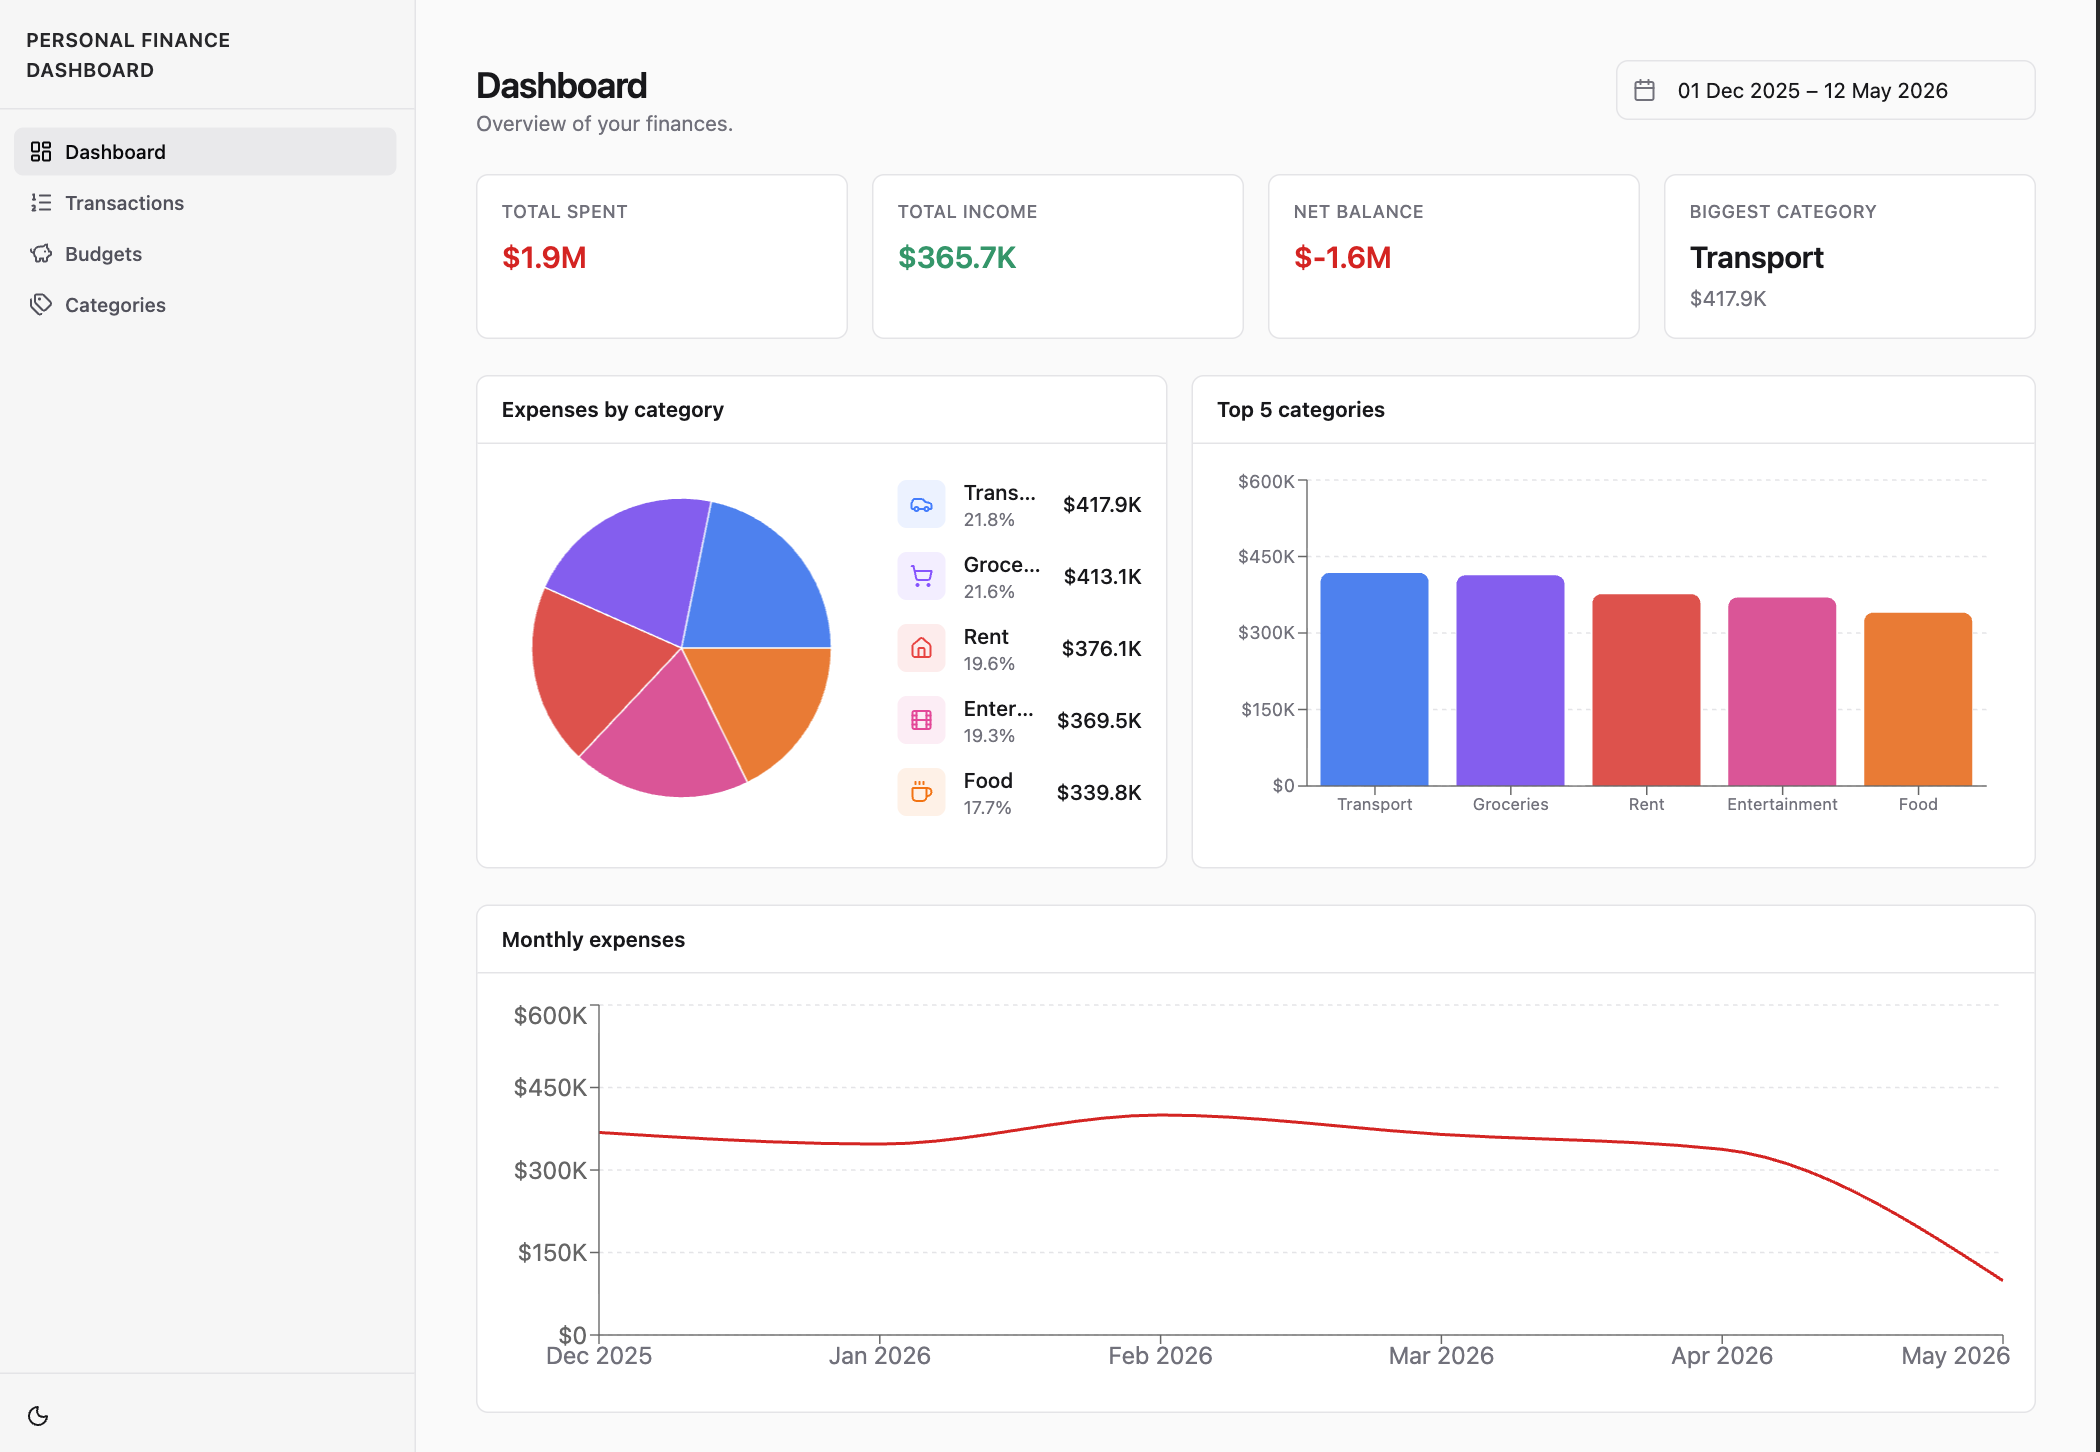
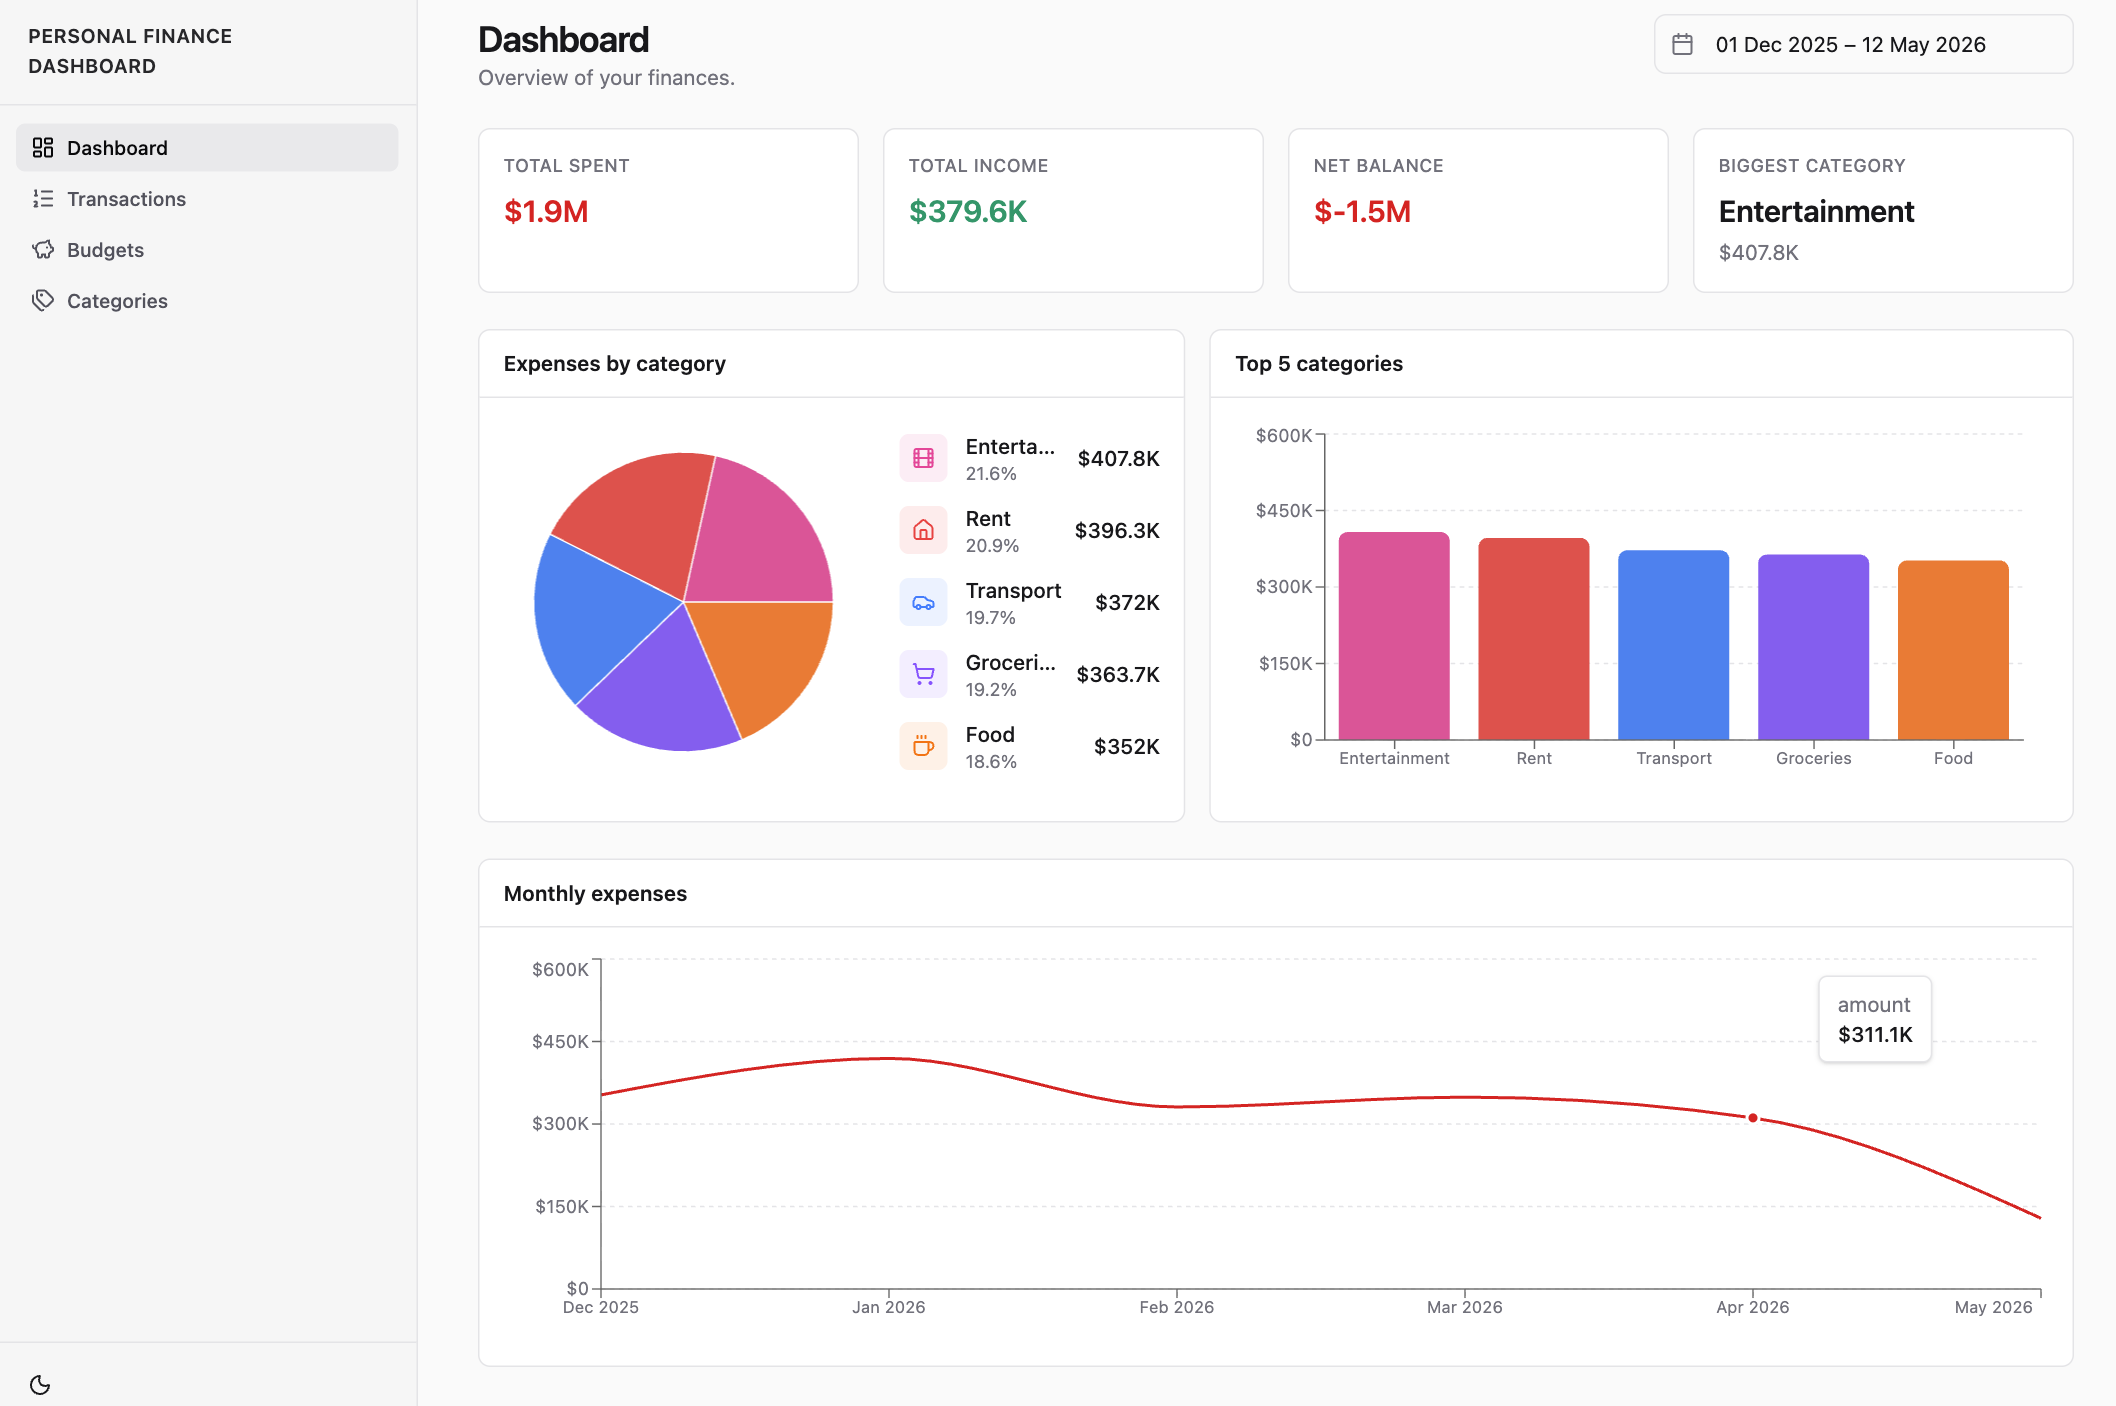
add README and deploy project to Vercel

diff --git a/README.md b/README.md
@@ -1,73 +1,186 @@
-# React + TypeScript + Vite
+# Finance Flow
 
-This template provides a minimal setup to get React working in Vite with HMR and some ESLint rules.
+A modern personal finance dashboard built with React, TypeScript, and AI-assisted development.
 
-Currently, two official plugins are available:
+## Live Demo
 
-- [@vitejs/plugin-react](https://github.com/vitejs/vite-plugin-react/blob/main/packages/plugin-react) uses [Oxc](https://oxc.rs)
-- [@vitejs/plugin-react-swc](https://github.com/vitejs/vite-plugin-react/blob/main/packages/plugin-react-swc) uses [SWC](https://swc.rs/)
+https://personal-finance-flow.vercel.app/
 
-## React Compiler
+## Preview
 
-The React Compiler is not enabled on this template because of its impact on dev & build performances. To add it, see [this documentation](https://react.dev/learn/react-compiler/installation).
+![Finance Flow Dashboard](./src/assets/hero.png)
 
-## Expanding the ESLint configuration
+## Features
 
-If you are developing a production application, we recommend updating the configuration to enable type-aware lint rules:
+- Financial overview dashboard with charts and summary cards
+- Transactions management with filtering, search, and URL-persisted state
+- Budget tracking with progress indicators
+- Categories management
+- Responsive mobile/tablet/desktop layouts
+- Dark mode support
+- Mock API with realistic async behavior using MSW
+- Form validation for transaction, budget, and category forms
 
-```js
-export default defineConfig([
-  globalIgnores(["dist"]),
-  {
-    files: ["**/*.{ts,tsx}"],
-    extends: [
-      // Other configs...
+## Tech Stack
 
-      // Remove tseslint.configs.recommended and replace with this
-      tseslint.configs.recommendedTypeChecked,
-      // Alternatively, use this for stricter rules
-      tseslint.configs.strictTypeChecked,
-      // Optionally, add this for stylistic rules
-      tseslint.configs.stylisticTypeChecked,
+### Frontend
 
-      // Other configs...
-    ],
-    languageOptions: {
-      parserOptions: {
-        project: ["./tsconfig.node.json", "./tsconfig.app.json"],
-        tsconfigRootDir: import.meta.dirname,
-      },
-      // other options...
-    },
-  },
-]);
+- React 19
+- TypeScript
+- Vite
+- Tailwind CSS
+- shadcn/ui
+- React Router
+
+### Data & State
+
+- TanStack Query
+- URL search params
+- MSW
+
+### Forms & Validation
+
+- react-hook-form
+- Zod
+
+### Charts & UI
+
+- Recharts
+- Lucide React
+
+### Tooling
+
+- ESLint
+- Prettier
+
+### AI Tooling
+
+- Claude Code
+
+## Architecture
+
+The project uses a feature-oriented structure.
+
+Shared UI primitives and layout components live in `src/components`, while domain-specific code is grouped by feature:
+
+- `features/transactions`
+- `features/budgets`
+- `features/categories`
+- `features/dashboard`
+
+State is split by responsibility:
+
+- **Server state** — handled with TanStack Query
+- **URL state** — used for transaction filters and search state
+- **Local UI state** — used for dialogs, forms, mobile navigation, and theme UI
+
+The project intentionally avoids unnecessary global state. A `store` directory exists, but no global store is used until there is a real need for one.
+
+MSW is used to simulate realistic API behavior without adding backend infrastructure complexity.
+
+## Responsive UX
+
+The app includes responsive layouts for mobile, tablet, and desktop:
+
+- mobile navigation with a sheet menu
+- adaptive page headers
+- mobile-friendly transaction filters
+- responsive dashboard cards and charts
+- table/card presentation for dense data views
+- dark mode support across pages and shared components
+
+## AI-Assisted Development
+
+Claude Code was used throughout development for implementation, debugging, refactoring, and responsive UX polish.
+
+The AI workflow is intentionally documented as part of the project because the goal is not only to build a dashboard, but also to demonstrate practical AI-assisted frontend development.
+
+## Project Structure
+
+```txt
+src/
+├── api/
+│   ├── mockData.ts
+│   ├── msw/
+│   │   ├── browser.ts
+│   │   └── handlers.ts
+│   └── queryKeys.ts
+├── assets/
+├── components/
+│   ├── layout/
+│   └── ui/
+├── features/
+│   ├── budgets/
+│   ├── categories/
+│   ├── dashboard/
+│   └── transactions/
+├── hooks/
+├── lib/
+├── pages/
+├── router.tsx
+├── types/
+├── App.tsx
+└── main.tsx
 ```
 
-You can also install [eslint-plugin-react-x](https://github.com/Rel1cx/eslint-react/tree/main/packages/plugins/eslint-plugin-react-x) and [eslint-plugin-react-dom](https://github.com/Rel1cx/eslint-react/tree/main/packages/plugins/eslint-plugin-react-dom) for React-specific lint rules:
+## Local Development
 
-```js
-// eslint.config.js
-import reactX from "eslint-plugin-react-x";
-import reactDom from "eslint-plugin-react-dom";
+Install dependencies:
 
-export default defineConfig([
-  globalIgnores(["dist"]),
-  {
-    files: ["**/*.{ts,tsx}"],
-    extends: [
-      // Other configs...
-      // Enable lint rules for React
-      reactX.configs["recommended-typescript"],
-      // Enable lint rules for React DOM
-      reactDom.configs.recommended,
-    ],
-    languageOptions: {
-      parserOptions: {
-        project: ["./tsconfig.node.json", "./tsconfig.app.json"],
-        tsconfigRootDir: import.meta.dirname,
-      },
-      // other options...
-    },
-  },
-]);
+```bash
+npm install
 ```
+
+Start the development server:
+
+```bash
+npm run dev
+```
+
+Run linting:
+
+```bash
+npm run lint
+```
+
+Format code:
+
+```bash
+npm run format
+```
+
+Check formatting:
+
+```bash
+npm run format:check
+```
+
+## Production Build
+
+Create a production build:
+
+```bash
+npm run build
+```
+
+Preview the production build locally:
+
+```bash
+npm run preview
+```
+
+## Status
+
+This project is currently in MVP polish phase.
+
+Planned next steps:
+
+- add baseline performance measurements
+- optimize bundle size and render performance
+- add Lighthouse CI
+- add selected unit and E2E tests
+- document before/after performance metrics
+
+## License
+
+MIT